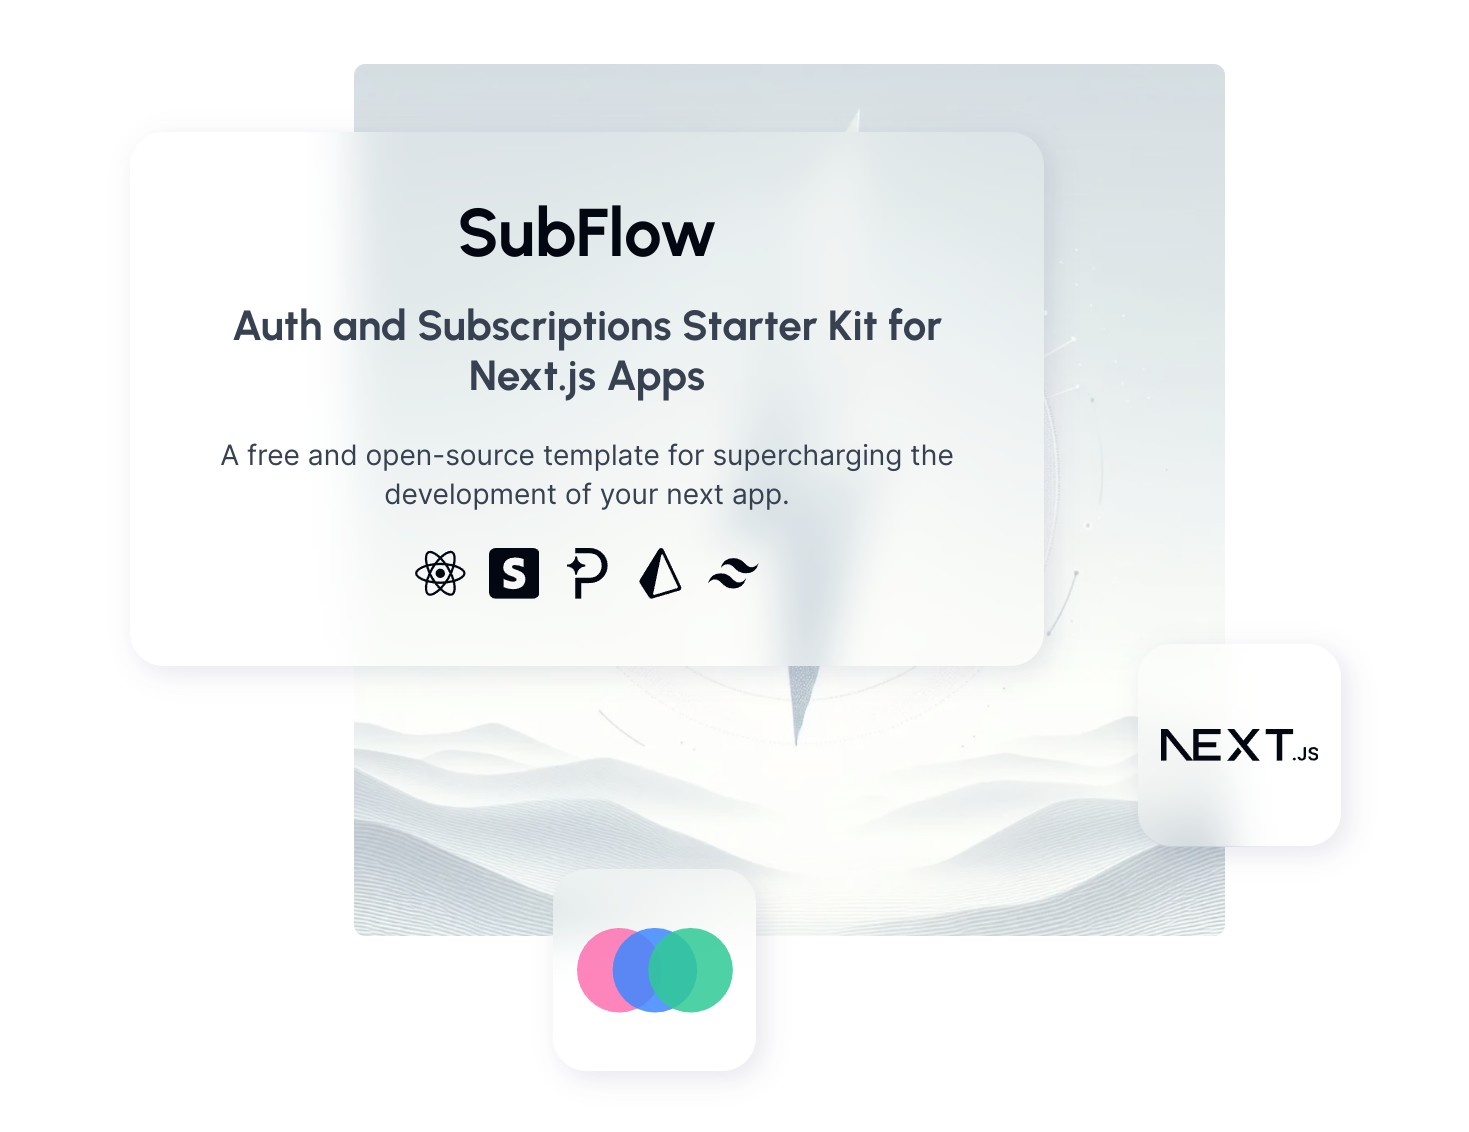
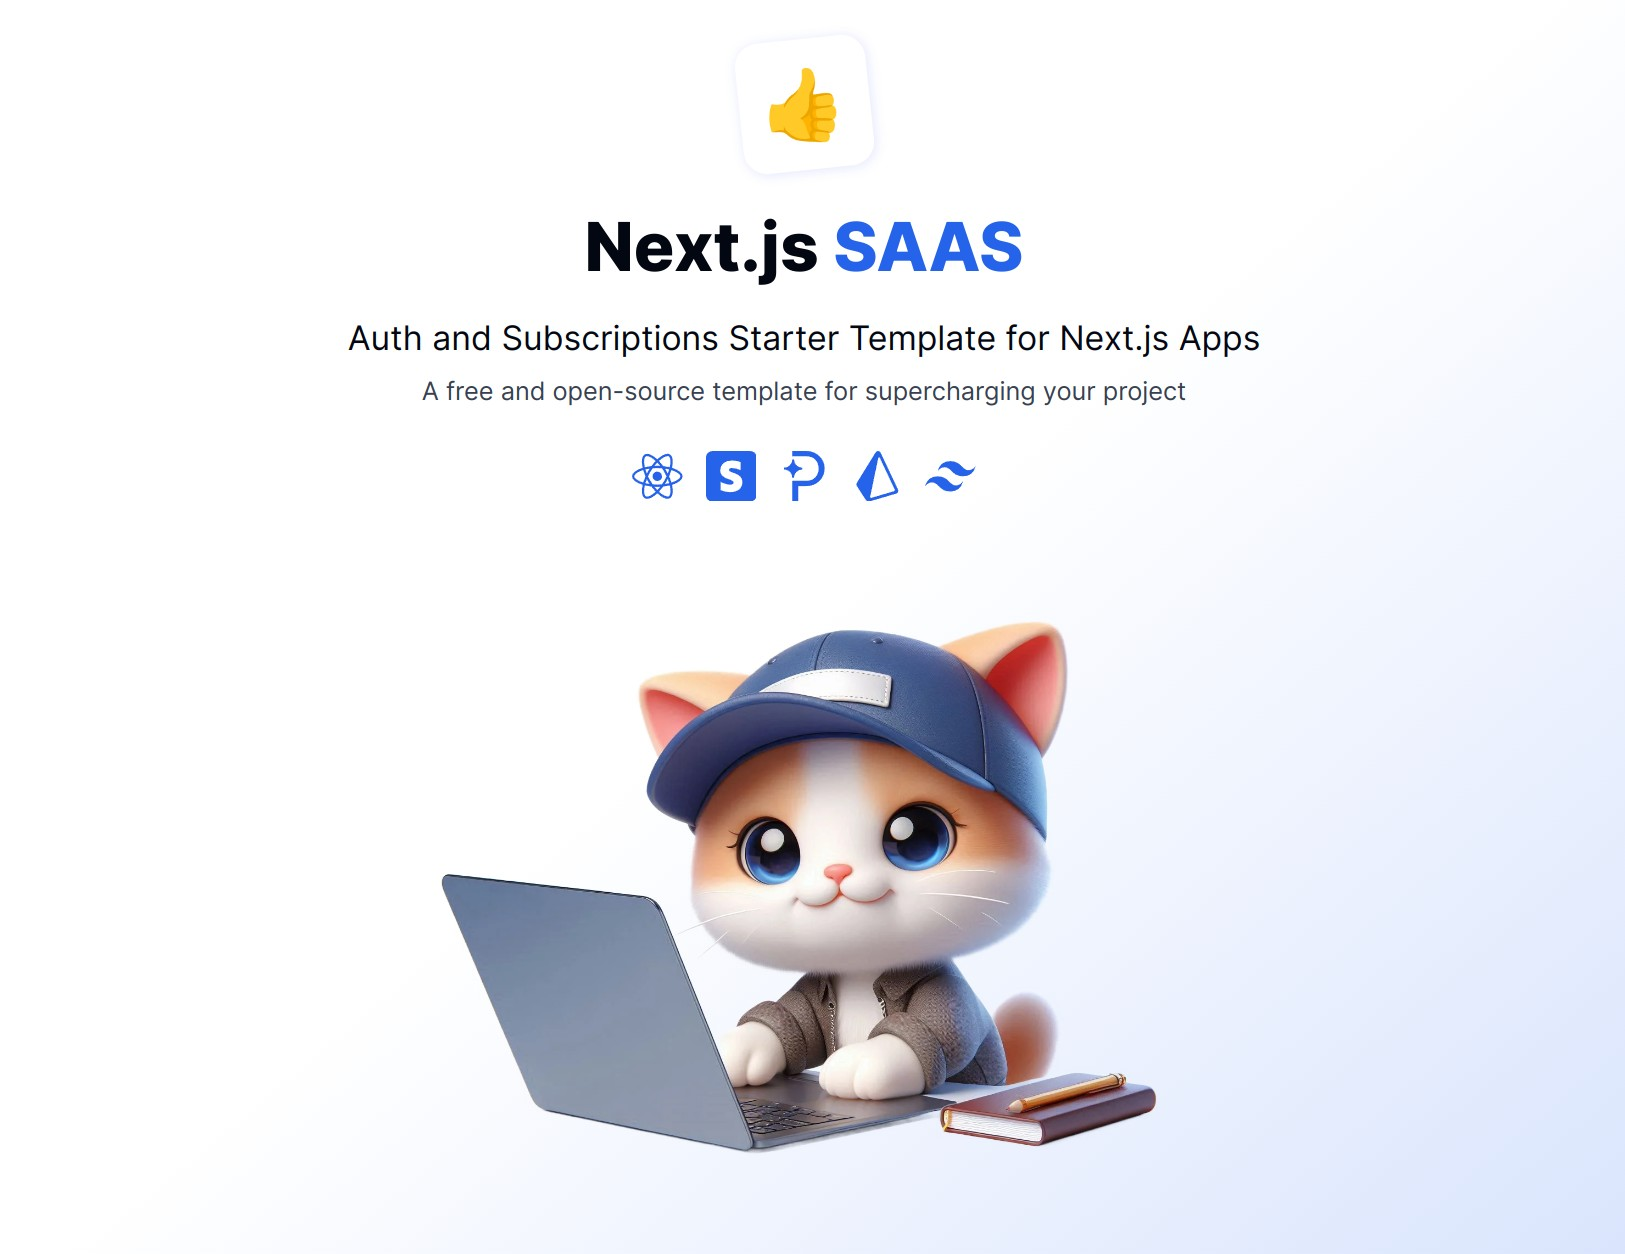
Next.js SAAS Starter Template

diff --git a/components/UI/Hero.tsx b/components/UI/Hero.tsx
@@ -1,82 +1,48 @@
-import clsx from "clsx";
-import { NextJsLogo, ReflowLogo } from "../SvgIcons";
-import { appName } from "@/lib/app-config";
 import { SiTailwindcss, SiPrisma, SiPaddle, SiReact } from "react-icons/si";
 import { BsStripe } from "react-icons/bs";
 
-function FrostedGlass({
-  children,
-  styles,
-}: {
-  children: React.ReactNode;
-  styles: string;
-}) {
-  return (
-    <div
-      className={clsx(
-        styles,
-        "relative grid place-items-center rounded-3xl bg-white bg-opacity-0 backdrop-blur-lg sm:bg-opacity-10 sm:shadow-lg",
-      )}
-    >
-      {children}
-    </div>
-  );
-}
-
 export default function Hero() {
   return (
-    <div className="relative flex w-full flex-col place-items-center py-24 sm:pb-52">
+    <div className="hero-gradient flex w-full flex-col place-items-center gap-y-2 px-6 pb-32 pt-24 text-center dark:bg-gray-950 dark:pb-16">
+      <div className="shadow-blue-lg mb-6 flex h-[93px] w-[93px] -rotate-6 items-center justify-center rounded-[17px] bg-white text-5xl dark:bg-gray-100">
+        <span className="rotate-6">👍</span>
+      </div>
+
+      <h1 className="mb-4 text-5xl font-extrabold">
+        Next.js <span className="text-blue-600">SAAS</span>
+      </h1>
+
+      <h2 className="text-2xl font-normal">
+        Auth and Subscriptions Starter Template for Next.js Apps
+      </h2>
+
+      <p className="text-secondary mb-5 text-lg">
+        A free and open-source template for supercharging your project
+      </p>
+
+      <div className="mb-16 flex w-full justify-center gap-x-4 text-4xl text-blue-600">
+        <a target="_blank" href="https://react.dev/">
+          <SiReact />
+        </a>
+        <a target="_blank" href="https://stripe.com/">
+          <BsStripe />
+        </a>
+        <a target="_blank" href="https://www.paddle.com/">
+          <SiPaddle />
+        </a>
+        <a target="_blank" href="https://www.prisma.io/">
+          <SiPrisma />
+        </a>
+        <a target="_blank" href="https://tailwindcss.com/">
+          <SiTailwindcss />
+        </a>
+      </div>
+
       <img
         src="/hero.webp"
         alt="Hero"
-        className="block rounded-lg object-cover opacity-0 dark:hidden sm:max-w-[560px] sm:opacity-100 md:max-w-[620px]"
+        className="block rounded-lg object-cover dark:hidden md:max-w-[700px]"
       />
-      <img
-        src="/hero_dark.webp"
-        alt="Hero"
-        className="hidden rounded-lg object-cover opacity-0 dark:block sm:max-w-[560px] sm:opacity-100 md:max-w-[620px]"
-      />
-      <div className="absolute bottom-0 left-0 right-0 top-0 flex flex-col items-center justify-center bg-white bg-opacity-60 p-5 text-center dark:bg-black dark:bg-opacity-70 dark:text-white">
-        <FrostedGlass styles="gap-y-6 sm:w-[450px] sm:h-[350px] lg:w-[650px] lg:h-auto sm:top-4 sm:right-24 md:right-36 p-8 lg:p-12">
-          <h1 className="text-5xl font-bold">{appName}</h1>
-          <h2 className="text-secondary text-3xl font-bold">
-            Auth and Subscriptions Starter Kit for Next.js Apps
-          </h2>
-          <p className="text-secondary text-xl">
-            A free and open-source template for supercharging the development of
-            your next app.
-          </p>
-          <div className="flex w-full justify-center gap-x-4 text-4xl">
-            <a target="_blank" href="https://react.dev/">
-              <SiReact />
-            </a>
-            <a target="_blank" href="https://stripe.com/">
-              <BsStripe />
-            </a>
-            <a target="_blank" href="https://www.paddle.com/">
-              <SiPaddle />
-            </a>
-            <a target="_blank" href="https://www.prisma.io/">
-              <SiPrisma />
-            </a>
-            <a target="_blank" href="https://tailwindcss.com/">
-              <SiTailwindcss />
-            </a>
-          </div>
-        </FrostedGlass>
-
-        <a href="https://nextjs.org/" className="hidden sm:block">
-          <FrostedGlass styles="h-36 w-36 top-0 left-72 md:left-80 p-4">
-            <NextJsLogo />
-          </FrostedGlass>
-        </a>
-
-        <a href="https://reflowhq.com/" className="hidden sm:block">
-          <FrostedGlass styles="h-36 w-36 top-4 right-24 p-4">
-            <ReflowLogo />
-          </FrostedGlass>
-        </a>
-      </div>
     </div>
   );
 }

diff --git a/components/layout/Navbar.tsx b/components/layout/Navbar.tsx
@@ -6,7 +6,6 @@ import SignInButton from "../auth/SignInButton";
 import UserDropdown from "@/components/auth/UserDropdown";
 import NavLink from "@/components/layout/NavLink";
 import MobileMenu from "@/components/layout/MobileMenu";
-import { urbanist } from "@/lib/fonts";
 import { appName } from "@/lib/app-config";
 import getAuth from "@/auth";
 import { Dropdown, DropdownMenuItem } from "@/components/UI/Dropdown";
@@ -67,15 +66,15 @@ export async function Navbar() {
   ];
 
   return (
-    <div className="sticky top-0 z-10 w-full bg-white px-5 py-3 shadow-subtle dark:bg-gray-900 dark:text-white dark:shadow-gray-950 xl:px-10">
+    <div className="sticky top-0 z-10 w-full bg-white px-5 py-4 shadow-subtle dark:bg-gray-900 dark:text-white dark:shadow-gray-950 xl:px-10">
       <div className="mx-auto flex w-full max-w-[1200px] items-center justify-between">
         <div className="text-xl font-bold">
-          <Link href="/" className="flex items-center gap-2">
-            <Logo size="sm" />
-            <span className={urbanist.className}>{appName}</span>
+          <Link href="/" className="flex items-center gap-3 font-extrabold">
+            <Logo />
+            {appName}
           </Link>
         </div>
-        <div className="ml-10 hidden flex-1 items-center justify-between sm:flex">
+        <div className="ml-10 hidden flex-1 items-center justify-between md:flex">
           <div className="flex items-center gap-7 text-gray-700">
             {navLinkItems.map((item) => (
               <NavLink key={item.href} href={item.href}>
@@ -110,7 +109,7 @@ export async function Navbar() {
             )}
 
             <a
-              href="https://github.com/danny-mark/subflow"
+              href="https://github.com/Reflow-HQ/nextjs-saas-starter-template"
               className="text-3xl"
               target="_blank"
             >

diff --git a/components/UI/Button.tsx b/components/UI/Button.tsx
@@ -1,12 +1,10 @@
 "use client";
 
 import { ReactNode } from "react";
-import { urbanist } from "@/lib/fonts";
 import clsx from "clsx";
 
 export interface ButtonProps {
   onClick?: (e: React.MouseEvent<HTMLElement>) => void;
-  action?: () => void;
   type?: "button" | "submit" | "reset";
   appearance?: ButtonStyleProps;
   disabled?: boolean;
@@ -21,7 +19,6 @@ export interface ButtonStyleProps {
 
 export function Button({
   onClick,
-  action,
   type = "button",
   appearance = {},
   disabled = false,
@@ -29,16 +26,14 @@ export function Button({
 }: ButtonProps) {
   const handleClick = (e: React.MouseEvent<HTMLElement>) => {
     onClick && onClick(e);
-    action && action();
   };
 
   return (
     <button
       className={clsx(
-        urbanist.className,
         "w-fit text-sm text-gray-900 enabled:hover:shadow-md disabled:opacity-50 dark:border-gray-600 dark:text-white ",
         {
-          "bg-gradient-to-r from-cyan-500 to-blue-500 text-white shadow-md hover:from-sky-500 hover:to-blue-500":
+          "bg-blue-600 text-white shadow-md hover:bg-blue-700":
             !appearance.style || appearance.style === "primary",
           "bg-gradient-to-r from-pink-500 to-rose-500 text-white hover:from-rose-500 hover:to-red-500":
             appearance.style === "danger",

diff --git a/components/UI/FAQ.tsx b/components/UI/FAQ.tsx
@@ -7,7 +7,10 @@ const items = [
       <>
         The starter kit is free and can be used and modified by everyone. It is
         also open-source and available on{" "}
-        <a className="text-link" href="https://github.com/danny-mark/subflow">
+        <a
+          className="text-link"
+          href="https://github.com/Reflow-HQ/nextjs-saas-starter-template"
+        >
           GitHub
         </a>
         .
@@ -30,7 +33,10 @@ const items = [
       <>
         All contributions are welcome! You can contribute by submitting bug
         reports, feature requests, or pull requests on{" "}
-        <a className="text-link" href="https://github.com/danny-mark/subflow">
+        <a
+          className="text-link"
+          href="https://github.com/Reflow-HQ/nextjs-saas-starter-template"
+        >
           GitHub
         </a>
         .
@@ -45,7 +51,7 @@ const items = [
         you can seek help and guidance from the community on our{" "}
         <a
           className="text-link"
-          href="https://github.com/danny-mark/subflow/issues"
+          href="https://github.com/Reflow-HQ/nextjs-saas-starter-template/issues"
         >
           GitHub Discussions
         </a>

diff --git a/app/layout.tsx b/app/layout.tsx
@@ -6,7 +6,7 @@ import SessionSync from "@/components/auth/SessionSync";
 import "./globals.css";
 import "react-tooltip/dist/react-tooltip.css";
 
-import { inter, urbanist } from "@/lib/fonts";
+import { inter } from "@/lib/fonts";
 import { appName, appURL } from "@/lib/app-config";
 
 export const metadata: Metadata = {
@@ -26,9 +26,7 @@ export default function RootLayout({
 }>) {
   return (
     <html lang="en" suppressHydrationWarning>
-      <body
-        className={`${inter.className} ${urbanist.variable} dark:bg-gray-800 dark:text-white`}
-      >
+      <body className={`${inter.className} dark:bg-gray-800 dark:text-white`}>
         <SessionSync />
         <Providers>
           {children}

diff --git a/components/UI/Logo.tsx b/components/UI/Logo.tsx
@@ -1,7 +1,7 @@
-export default function Logo({ size = "lg" }: { size?: "sm" | "lg" }) {
-  const width = size === "sm" ? 30 : 40;
-  const height = width;
-  const src = size === "sm" ? "/logo_sm.png" : "/logo.png";
-
-  return <img src={src} alt="Logo" width={width} height={height} />;
+export default function Logo() {
+  return (
+    <div className="shadow-blue flex h-[34px] w-[35px] -rotate-6 items-center justify-center rounded-[6px] bg-[linear-gradient(90deg,#edeffb,#e4e6fa)] text-lg">
+      <span className="rotate-6">💰</span>
+    </div>
+  );
 }

diff --git a/components/layout/MobileMenu.tsx b/components/layout/MobileMenu.tsx
@@ -35,7 +35,7 @@ export default function MobileMenu({
 
   return (
     <div>
-      <div className="flex items-center gap-2 sm:hidden">
+      <div className="flex items-center gap-2 md:hidden">
         <ThemeSwitcher />
         <BiMenu
           size={30}
@@ -95,7 +95,7 @@ export default function MobileMenu({
         )}
 
         <a
-          href="https://github.com/danny-mark/subflow"
+          href="https://github.com/Reflow-HQ/nextjs-saas-starter-template"
           className="mt-12 text-4xl"
           target="_blank"
         >

diff --git a/tailwind.config.ts b/tailwind.config.ts
@@ -18,14 +18,10 @@ const config: Config = {
         subtle: "0 0 15px rgb(47 49 111 / 12%)",
         lg: "5px 5px 20px rgb(47 49 111 / 12%)",
         md: "2px 2px 10px rgb(47 49 111 / 10%)",
+        blue: "1px 1px 5px rgb(16 51 231 / 8%)",
+        "blue-lg": "1px 1px 8px rgb(16 51 231 / 12%)",
         "3xl": "0 35px 60px -15px rgba(0, 0, 0, 0.3)",
       },
-    },
-    maxWidth: {
-      "1/4": "25%",
-      "1/2": "50%",
-      "3/4": "75%",
-      "7/8": "87.5%",
     },
   },
   plugins: [],

diff --git a/app/(site)/pricing/page.tsx b/app/(site)/pricing/page.tsx
@@ -21,8 +21,8 @@ export default async function PricingPage() {
       <div className="mb-12">
         <h2 className="mb-5 text-3xl font-bold">Pricing</h2>
         <p className="mb-4 text-lg leading-7">
-          SubFlow makes it super easy to setup subscriptions for your app or
-          SaaS product.
+          Next.js SAAS Starter Template makes it super easy to setup
+          subscriptions for your app.
         </p>
 
         <p className="mb-8 text-lg leading-7">

diff --git a/app/globals.css b/app/globals.css
@@ -31,7 +31,7 @@ h3,
 h4,
 h5,
 h6 {
-  font-family: var(--font-urbanist);
+  font-family: var(--font-inter);
 }
 
 @layer utilities {
@@ -77,6 +77,10 @@ textarea::-webkit-scrollbar-thumb:hover {
 .card-yellow {
   color: #312924;
   background: linear-gradient(60deg, #fdfdfd 20%, #faece4);
+}
+
+.light .hero-gradient {
+  background: linear-gradient(140deg, #ffffff 0%, #ffffff 50%, #cddcfc 100%);
 }
 
 @keyframes blink {

diff --git a/app/manifest.ts b/app/manifest.ts
@@ -7,15 +7,7 @@ export default function manifest(): MetadataRoute.Manifest {
     short_name: appName,
     icons: [
       {
-        src: "/logo_512.png",
-        type: "image/png",
-        sizes: "512x512",
-        purpose: "any",
-      },
-      {
-        src: "/logo_192.png",
-        type: "image/png",
-        sizes: "192x192",
+        src: "/logo.svg",
         purpose: "any",
       },
     ],

diff --git a/app/(site)/database/page.tsx b/app/(site)/database/page.tsx
@@ -17,7 +17,7 @@ export default async function TasksPage() {
         <h2 className="mb-5 text-3xl font-bold">Database Demo</h2>
 
         <p className="mb-4 text-lg leading-7">
-          SubFlow comes with a flexible{" "}
+          Next.js SAAS Starter Template comes with a flexible{" "}
           <a href="#" className="text-link">
             Prisma configuration
           </a>{" "}
